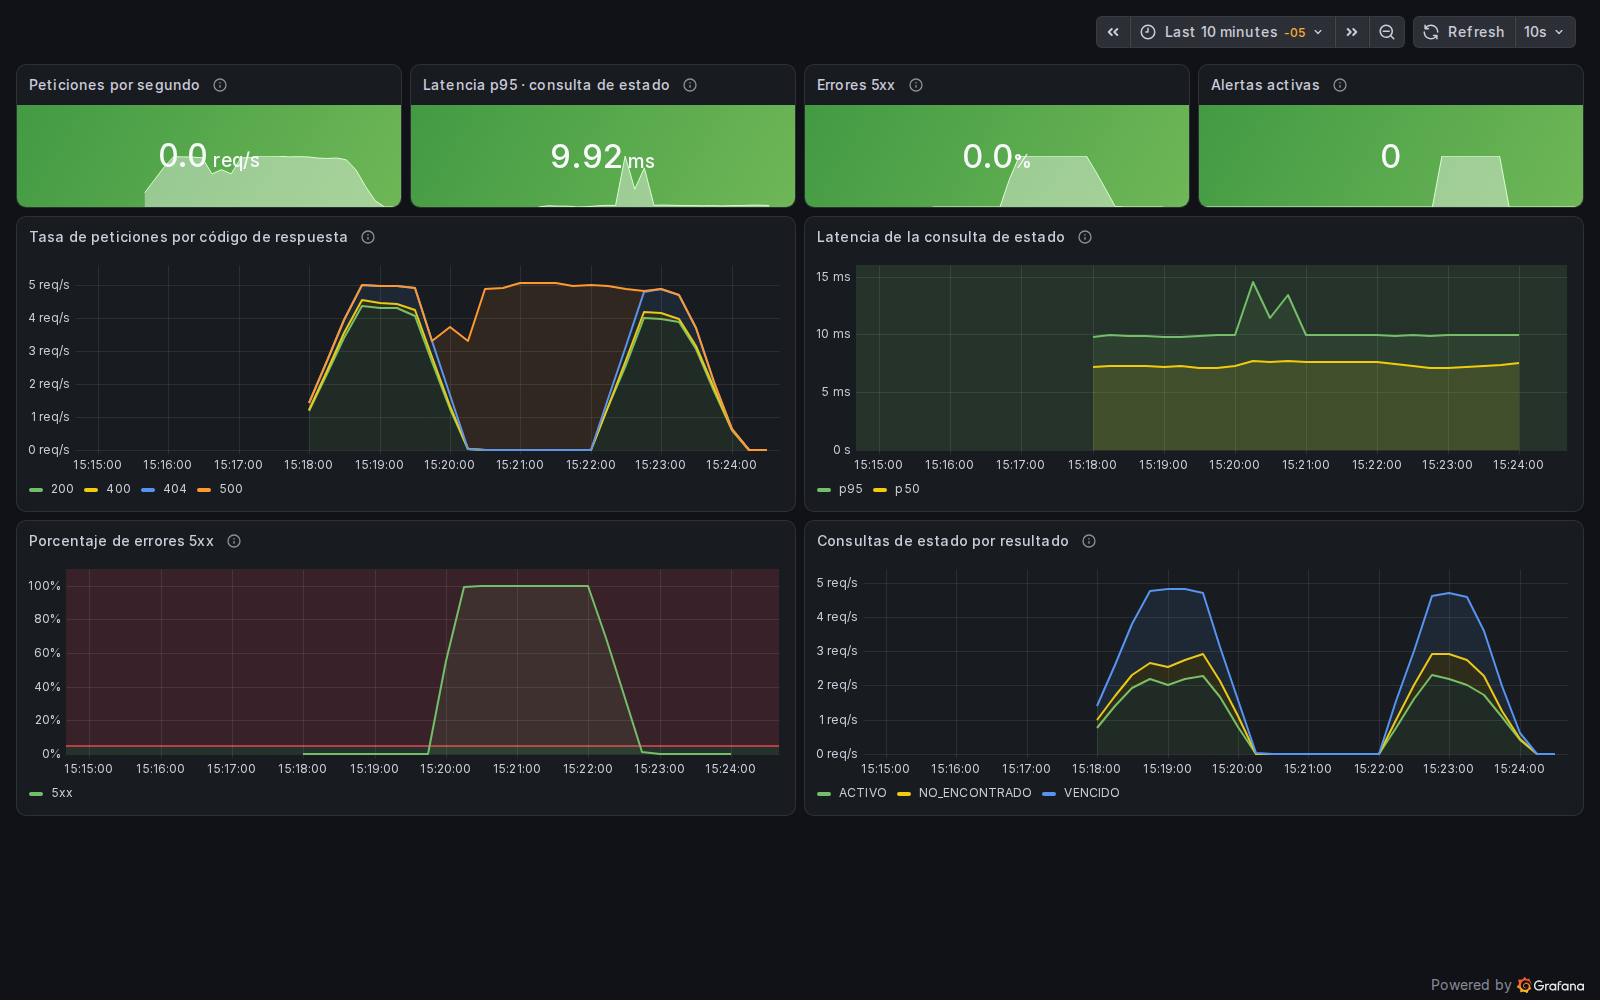
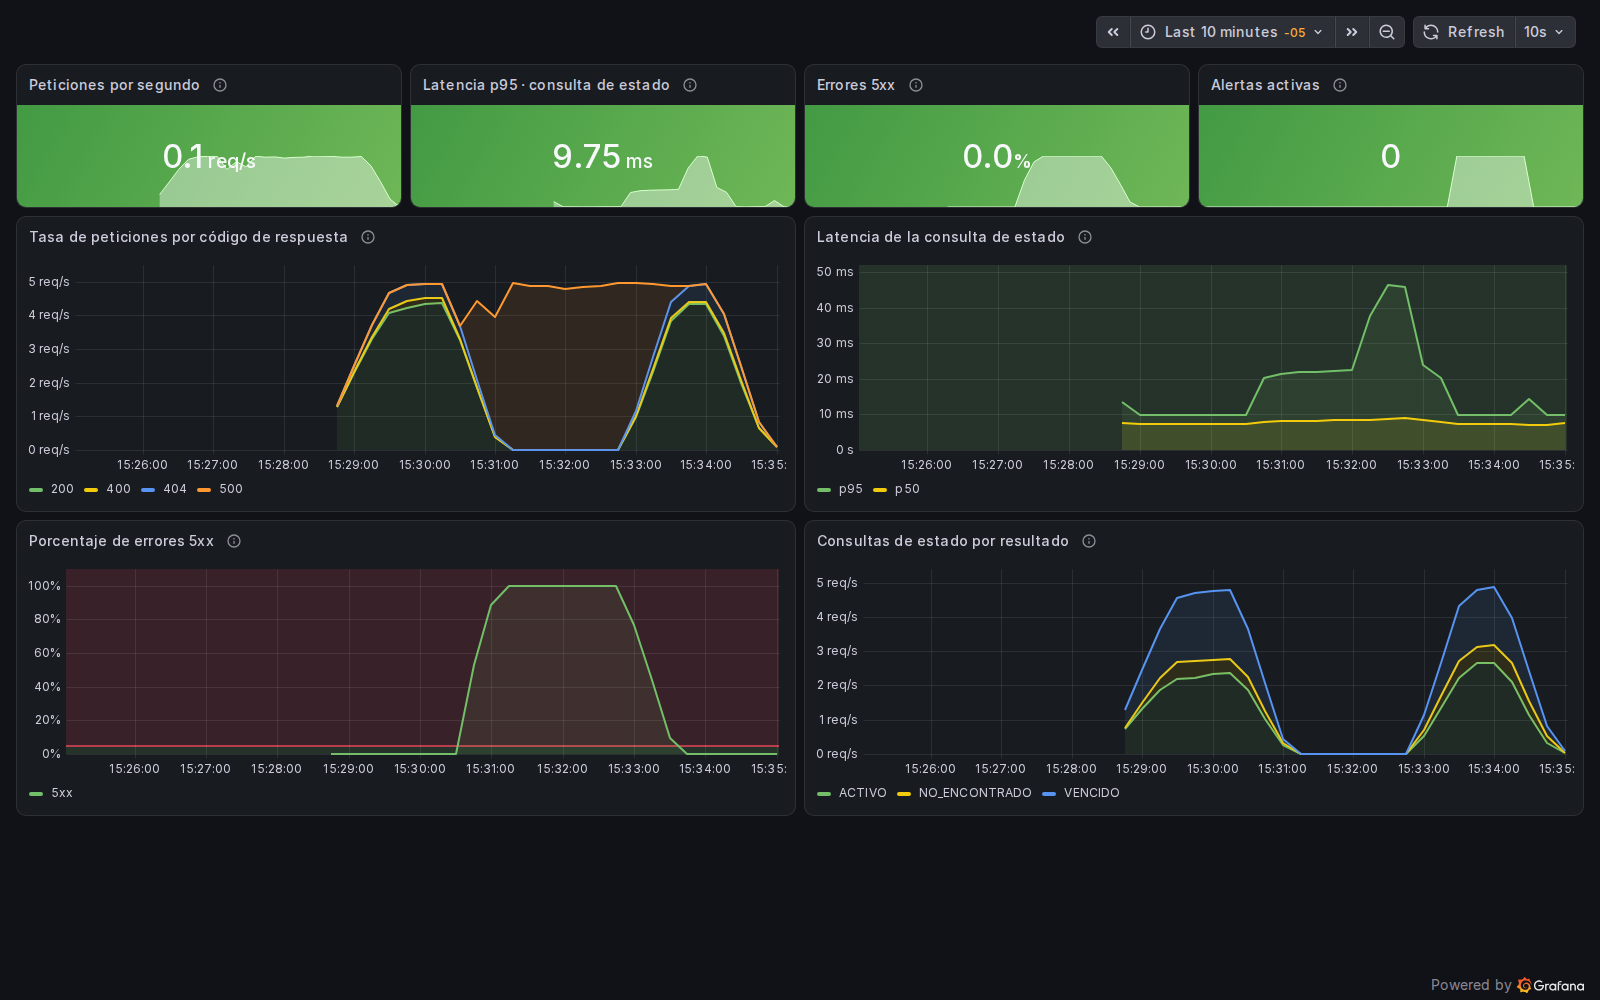
docs(guia-13): ADR N.° 13, evidencia del workflow de observabilidad y del ejercicio de la IA
Claude-Session: https://claude.ai/code/session_01CgRjTNNy7k8MQdpVgHeNej

diff --git a/docs/adr/ADR-013-observabilidad.md b/docs/adr/ADR-013-observabilidad.md
@@ -1,0 +1,12 @@
+# ADR N.° 13 · Observabilidad con OpenTelemetry: trazas muestreadas al 10 %, métricas para Prometheus y logs JSON sin datos personales, con retención corta
+
+| Campo | Contenido |
+| --- | --- |
+| Estado | Aceptado (3/11/2026) |
+| Contexto | Desde el ADR N.° 11, FitManage corre en Render, pero lo único que se sabía de producción era si `/api/v1/salud` respondía. No había métricas ni trazas, y el único log de cada petición era el access log de gunicorn, que escribía la URL completa: `GET /api/v1/estados/CC/1098765432`, es decir, la cédula del socio, en texto plano, en los logs de Render. El endpoint crítico es justo ese, la consulta de estado de recepción (QA-01, RF-04), que lleva el documento en la ruta. Fuerzas: la Ley 1581 de 2012 (principios de finalidad y seguridad), una instancia gratuita de 512 MB, costo 0 (R-01) y una sola persona que tendría que mirar los tableros. |
+| Alternativas consideradas | **A. Autoinstrumentación** (`opentelemetry-instrumentation-django`): da spans de todo sin código, pero pone atributos con la URL y deja que cualquier librería agregue los suyos. **B. Instrumentación propia y mínima**: un middleware que crea el span, mide la latencia y escribe un log por petición usando la plantilla de la ruta, más un span hijo en la consulta de estado. **C. Un servicio SaaS de APM** con su agente. **D. Seguir solo con logs de texto.** |
+| Decisión | Se elige **B**. Cada petición a la API (menos `/salud` y `/metrics`) produce: un span `GET /api/v1/estados/{tipoDocumento}/{numeroDocumento}` con método, ruta y código; la métrica `http.server.request.duration` (histograma) con esas tres etiquetas; y una línea JSON con `trace_id`. La consulta de estado agrega el span `consultar_estado`, el contador `fitmanage.consultas_estado` por resultado y su propia línea de log. El documento solo aparece como seudónimo: un HMAC con la `SECRET_KEY` y una sal propia de la telemetría, truncado a 12 caracteres. Un filtro redacta rutas con documento y cifras de 7 dígitos o más en cualquier mensaje, también en los de Django, y el formateador JSON solo deja salir campos de una lista blanca. Las trazas se muestrean al 10 % (`ParentBased` sobre `TraceIdRatioBased`, variable `OTEL_TRACES_SAMPLER_ARG`) y salen por OTLP solo si hay un colector. Las métricas se leen en `/metrics`, protegido con un token. gunicorn pasa a 1 proceso con 4 hilos, para que cada lectura de `/metrics` cuente todo el tráfico, y deja de escribir el access log. Prometheus, Grafana y Jaeger corren fuera de la aplicación, en el perfil `observabilidad` de compose. `FITMANAGE_TELEMETRIA=0` apaga el middleware sin cambiar el código. |
+| Consecuencias | A favor: en la corrida 41712539584 del workflow `Observabilidad`, el tablero mostró la tasa de peticiones, el p95 de la consulta (cerca de 10 ms con la base sana) y el porcentaje de errores. Durante un apagón de la base de 2 min 30 s, los 5xx llegaron al 100 % y la alerta `ErroresDelServidor` se disparó. Jaeger guardó 188 trazas de 1.645 peticiones (11,4 %, con el 10 % configurado; en otra corrida fueron 169 de 1.650, el 10,2 %), y ningún documento apareció en los logs, en las métricas ni en las trazas: el workflow lo comprueba y falla si aparece uno. En contra: medido en local, la CPU del proceso sube un 5,8 % con el 10 % de muestreo (9,7 % con el 100 %) y los logs pasan de unos 230 a unos 680 bytes por consulta. Un solo proceso de gunicorn no aprovecharía dos núcleos, pero la instancia gratuita de Render tiene una fracción de uno (0,1 CPU). Y en producción todavía no hay colector: Render guarda los logs con su `trace_id`, pero las trazas no salen del proceso y nadie lee `/metrics` hasta conectar un Prometheus o un plan gratuito en la nube. |
+| Política de rotación y retención de logs | **Logs de la aplicación:** una línea JSON por evento en la salida estándar. Render los guarda **7 días** (plan Hobby) y los borra solo; no se copian a ningún otro lado. En compose, Docker los rota a **10 MB × 3 archivos** (30 MB como máximo). **Métricas:** Prometheus guarda **15 días o 1 GB**, lo que llegue primero; no tienen datos personales, porque solo llevan rutas, códigos y resultados. **Trazas:** el 10 % de las peticiones; Jaeger las guarda **en memoria** y se pierden al reiniciarlo. Nada de eso lleva un documento, un nombre o un teléfono; el seudónimo sigue siendo un dato personal según la Ley 1581, y por eso también vence a los 7 días. Si algún día hay que guardar logs más tiempo (por ejemplo, para una auditoría), se exportan sin el seudónimo. |
+| Impacto de costo (almacenamiento) | En la corrida de 7 minutos con 1.645 peticiones: **Prometheus ocupó 60 KB** con 90 series y **las trazas de Jaeger, unos 230 KB** en JSON. Los logs fueron 5,4 MB, unos 3.300 bytes por petición, porque las 715 peticiones con error del apagón traen la traza de la excepción. En operación normal, una consulta deja unos 680 bytes de log: con 500 consultas al día son unos 340 KB diarios, menos de 2,5 MB en los 7 días de Render. Todo cabe en el plan gratuito; el costo en dinero es 0. |
+| Cuándo revisar esta decisión | Al conectar un colector en producción (Grafana Cloud o un Prometheus propio): definir dónde se guardan las trazas y por cuánto tiempo. Si una sede nueva multiplica el tráfico, bajar el muestreo o pasar a muestreo en el colector (tail sampling, que guarda siempre las trazas con error). Y en la Guía 14, cuando estas métricas se conviertan en SLI y SLO. |

diff --git a/docs/guia-13-sw2/evidencia/README.md b/docs/guia-13-sw2/evidencia/README.md
@@ -1,0 +1,44 @@
+# Evidencia de la Guía 13 (FPI-29)
+
+## Workflow `Observabilidad`, corrida 41712539584 (PR #24)
+
+Levanta FitManage con Prometheus, Grafana y Jaeger (`docker compose --profile observabilidad`), siembra el volumen de QA-01, manda 6 minutos de tráfico de recepción con k6 y, desde el minuto 2, apaga la base de datos 2 min 30 s.
+
+| Señal | Valor |
+| --- | --- |
+| Peticiones atendidas | 1.645 (794 con 200, 96 con 404, 21 con 400 y 715 con 500 durante el apagón) |
+| Tasa promedio | 3,9 peticiones por segundo |
+| Errores 5xx en la ventana de 7 minutos | 44 % (100 % mientras la base estuvo apagada) |
+| Alerta `ErroresDelServidor` | Se disparó durante el apagón |
+| Trazas guardadas en Jaeger | 188 de 1.645 peticiones (11,4 %; muestreo configurado en 10 %) |
+| Documentos de socios en logs, métricas y trazas | 0 (el workflow falla si encuentra uno) |
+| Disco de Prometheus | 60 KB, 90 series |
+| Logs JSON de la app | 5,4 MB, unos 3.300 bytes por petición (las de error traen la traza de la excepción) |
+
+Capturas tomadas por el workflow con Chromium:
+
+- [`grafana-apagon.png`](grafana-apagon.png): el tablero durante el apagón, con los errores al 100 % y la alerta activa.
+- [`grafana.png`](grafana.png): el tablero al terminar, con la base recuperada.
+- [`jaeger.png`](jaeger.png): una traza de la consulta de estado. El socio aparece como `fitmanage.socio.seudonimo`.
+
+## Antes y después en el log de gunicorn
+
+Antes, con `--access-logfile -` (lo que corría en Render hasta esta guía):
+
+```
+127.0.0.1 - - [03/Nov/2026:14:19:43 -0500] "GET /api/v1/estados/CC/1098765432 HTTP/1.1" 401 177 "-" "curl/8.5.0"
+```
+
+Después, con los logs JSON y el filtro de datos personales, la misma petición sin token:
+
+```
+{"momento": "2026-11-03T19:23:50.884+00:00", "nivel": "INFO", "logger": "fitmanage.peticiones", "mensaje": "petición atendida", "trace_id": "2753119393f034114b7d1cc2bd2e73af", "span_id": "03c5912134a3bee9", "evento": "peticion", "metodo": "GET", "ruta": "/api/v1/estados/{tipoDocumento}/{numeroDocumento}", "estado": 401, ...}
+{"momento": "2026-11-03T19:23:50.885+00:00", "nivel": "WARNING", "logger": "django.request", "mensaje": "Unauthorized: /api/v1/estados/{tipoDocumento}/{numeroDocumento}"}
+```
+
+La segunda línea muestra la otra fuga que apareció al activar los logs: Django escribe la ruta completa en cada 401 y 404. El filtro la redacta.
+
+## Otras evidencias
+
+- [`costo-telemetria.md`](costo-telemetria.md): medición local de latencia, CPU y volumen de logs con la telemetría apagada, al 10 % y al 100 %.
+- [`revertir-hash-ia.txt`](revertir-hash-ia.txt): el «hash» de cédula que propuso la IA se revierte en 1,7 segundos.

diff --git a/docs/adr/README.md b/docs/adr/README.md
@@ -16,5 +16,6 @@ Un ADR aceptado no se edita. Si la decisión cambia, se escribe uno nuevo y el a
 | [10](ADR-010-contenedores.md) | Imagen multietapa sobre `python:3.12-slim-trixie` sin root; Compose con la base en un volumen dentro de una red interna | Aceptado | 02/11/2026 |
 | [11](ADR-011-despliegue-continuo.md) | Despliegue continuo a Render desde la imagen de CI, con healthcheck de versión y rollback a `estable` | Aceptado | 02/11/2026 |
 | [12](ADR-012-devsecops-sast-sca.md) | Semgrep y Trivy bloquean los hallazgos críticos y altos en el pipeline; cada excepción tiene razón y vencimiento | Aceptado | 02/11/2026 |
+| [13](ADR-013-observabilidad.md) | OpenTelemetry con trazas al 10 %, métricas para Prometheus y logs JSON sin datos personales; logs 7 días, métricas 15 días | Aceptado | 03/11/2026 |
 
 Los ADR 01 y 02 se escribieron con la plantilla de 5 campos de la Guía 1. Desde el ADR 03 se usa la plantilla completa de 6 campos (`plantilla.md`), que agrega las alternativas consideradas. Los dos primeros no se reescriben para cumplirla, precisamente porque un ADR aceptado es inmutable.
